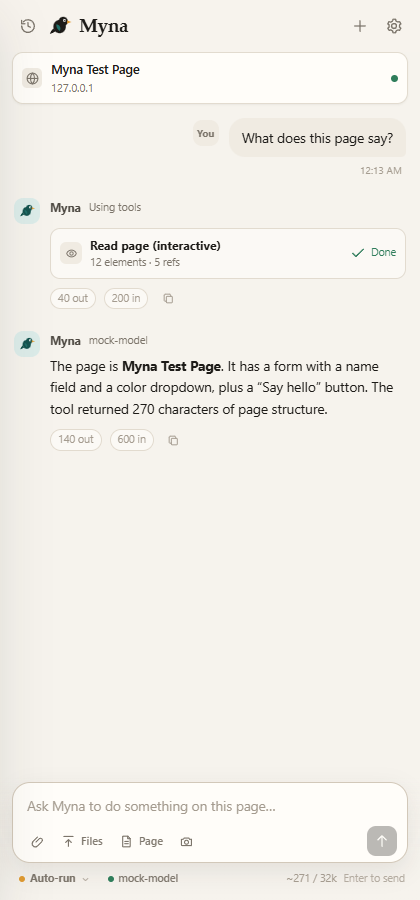
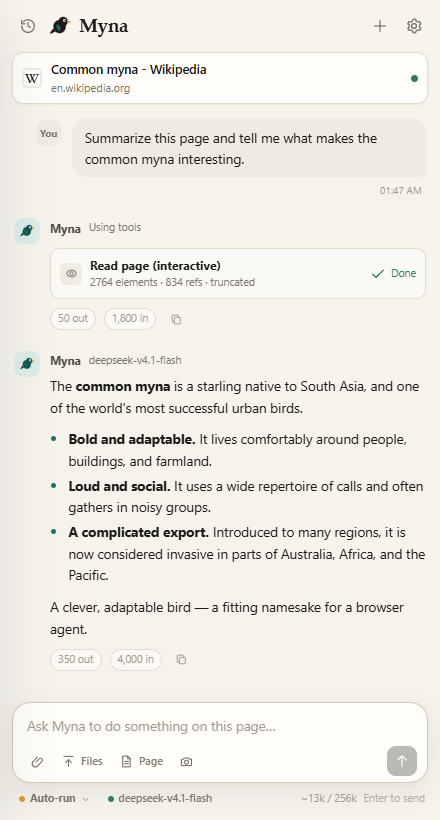
Reposition Myna as the open-source Claude in Chrome alternative
Rewrite the landing page around a hero product shot, clearer onboarding, a comparison table, FAQ, and refreshed real-page screenshots.

diff --git a/README.md b/README.md
@@ -1,21 +1,22 @@
 <p align="center">
-  <img src="src/assets/icon-128.png" width="104" alt="Myna" />
+  <img src="src/assets/icon-128.png" width="96" alt="Myna" />
 </p>
 
 <h1 align="center">Myna</h1>
 
 <p align="center">
-  <strong>An open-source Chrome browser agent with your own API keys.</strong><br />
-  Read the page. Click, type, fill, scroll, open tabs, and research the web — without a Myna account or backend.
+  <strong>The open-source alternative to Claude in Chrome.</strong><br />
+  Bring your own model. Let an AI agent read, click, fill, and research across your tabs.<br />
+  No Myna account. No backend. No telemetry.
 </p>
 
 <p align="center">
   <a href="https://github.com/DumDuky/myna-browser-agent/releases/latest"><img alt="Latest release" src="https://img.shields.io/github/v/release/DumDuky/myna-browser-agent?color=1f6f68" /></a>
   <a href="https://github.com/DumDuky/myna-browser-agent/actions/workflows/ci.yml"><img alt="CI" src="https://github.com/DumDuky/myna-browser-agent/actions/workflows/ci.yml/badge.svg" /></a>
   <img alt="Chrome 116+" src="https://img.shields.io/badge/Chrome-116%2B-df9a31" />
-  <img alt="Manifest V3" src="https://img.shields.io/badge/Manifest-V3-1f6f68" />
   <a href="LICENSE"><img alt="MIT licence" src="https://img.shields.io/github/license/DumDuky/myna-browser-agent?color=1f6f68" /></a>
   <img alt="No telemetry" src="https://img.shields.io/badge/telemetry-none-b4473c" />
+  <a href="CONTRIBUTING.md"><img alt="PRs welcome" src="https://img.shields.io/badge/PRs-welcome-1f6f68" /></a>
 </p>
 
 <p align="center">
@@ -23,52 +24,86 @@
   ·
   <a href="#install">Install</a>
   ·
-  <a href="#features">Features</a>
+  <a href="#what-myna-can-do">Features</a>
+  ·
+  <a href="#screenshots">Screenshots</a>
   ·
   <a href="#providers">Providers</a>
   ·
-  <a href="docs/limitations.md">Limitations</a>
+  <a href="#faq">FAQ</a>
   ·
-  <a href="CONTRIBUTING.md">Contributing</a>
+  <a href="docs/limitations.md">Limitations</a>
 </p>
 
-![Myna chat side panel](docs/screenshots/chat.png)
+![Myna running in a Chrome side panel on a Wikipedia page](docs/screenshots/hero.png)
 
-Myna is an independent, clean-room Chrome extension inspired by the convenience of AI side panels such as Claude in Chrome. It is not affiliated with Anthropic. It talks directly to the model API you choose, keeps its state in your browser, and ships as readable source with no build step.
+Myna puts an AI browser agent in Chrome's side panel. It uses the model provider you choose, talks to that provider directly, and stores your chats in Chrome. You can run it with Anthropic, OpenAI, OpenCode Go, Gemini, a local Ollama model, or any OpenAI-compatible gateway.
 
-> **Status: beta.** The core agent works and is tested, but interfaces and provider presets can change. Read [limitations](docs/limitations.md) before trusting it with anything irreversible.
+Myna is an independent, clean-room project. It is not affiliated with or endorsed by Anthropic. Claude in Chrome is a product of Anthropic.
+
+> **Beta:** the core agent works and has tests, but interfaces and model presets can change. Read [limitations](docs/limitations.md) before you trust it with anything irreversible.
+
+## Start here
+
+- **New to Myna?** [Download the latest release](https://github.com/DumDuky/myna-browser-agent/releases/latest), then follow [Install](#install).
+- **Want to read the code?** The extension runs directly from source. There is no build step and no bundled runtime.
+- **Want to contribute?** Read [CONTRIBUTING.md](CONTRIBUTING.md). Provider presets, docs, tests, and accessibility fixes are all useful.
+- **Need help?** See [SUPPORT.md](SUPPORT.md) or open a [discussion](https://github.com/DumDuky/myna-browser-agent/discussions).
 
 ## Why Myna
 
-- **Your key, your provider.** No Myna account, relay, or subscription. Use a frontier model, a cheap coding model, or a local Ollama model.
-- **Local-first.** Chats, settings, rules, and keys live in Chrome storage. There is no Myna server and no telemetry.
-- **Auditable.** No bundler, no minified code, no remote scripts. The whole extension is plain HTML, CSS, and ES modules.
-- **One browser-wide chat.** Switch tabs and Myna follows the active tab; the conversation stays put. It can also list and work across tabs in every normal window.
-- **Permission-first.** Ask first, auto-run, plan-first, or read-only. Sensitive sites prompt even in Auto-run, and password/card fields are refused.
-- **Extensible.** Add remote MCP tools, scheduled runs, skills, and your own OpenAI-compatible gateway.
+- **Use the model you already pay for.** Myna works with hosted APIs and local models. You control the provider, model, key, and spending limit.
+- **Keep the conversation in one place.** One chat follows the active tab. Switch tabs and Myna updates the page context without starting over.
+- **Approve what matters.** Choose Ask first, Auto-run, Plan first, or Read only. Add site rules. Sensitive sites still ask in Auto-run.
+- **Audit the whole extension.** Every line is plain HTML, CSS, or ES modules. No minified bundle, no remote script, no hidden service.
+- **Extend it without a vendor roadmap.** Add remote MCP tools, reusable skills, scheduled runs, or a custom OpenAI-compatible gateway.
+- **Keep your data local.** Chats, settings, rules, and keys live in Chrome storage. Myna runs no server and collects no analytics.
 
-## Features
+### How Myna is different
 
-| | |
+| | Myna | A typical hosted browser assistant |
+| --- | --- | --- |
+| Account | Not required | Usually required |
+| Model | Any provider you configure | Selected by the vendor |
+| Data path | Browser to your provider | Through the vendor service |
+| Source code | MIT, readable | Closed |
+| Chat history | Local Chrome storage | Usually account-based |
+| Extensibility | MCP, custom gateways, skills | Vendor roadmap |
+
+This table describes hosted browser assistants in general. Check each product's current terms before comparing details.
+
+## What Myna can do
+
+| Area | What you get |
 | --- | --- |
-| **Browser tools** | Accessibility tree with stable refs, fuzzy find, article text, click/type/key/scroll/hover/drag, screenshots, form filling, file upload |
-| **Tabs** | List tabs across windows, create, close, group, navigate, resize |
-| **One global chat** | Follows the active tab without starting a new conversation per tab |
-| **Providers** | Anthropic Messages and OpenAI Chat Completions, plus 15 presets |
-| **Presets** | Provider, common model, behaviour, permission, and appearance presets |
-| **Permissions** | Ask, Auto-run, Plan first, Read only; per-site rules; sensitive-host checks |
-| **Agent motion** | Cursor, click ripples, typing caret, keycaps, scroll hints, element flashes |
-| **MCP** | Remote Streamable HTTP servers, tools imported as `mcp__server__tool` |
-| **Schedules** | Daily or weekly prompt runs in a visible window, with notifications |
-| **Extras** | GIF recording/export, direct web fetch, Bing RSS search, skills editor |
-| **Debugger (optional)** | Trusted input, full screenshots, console logs, network metadata |
-| **Privacy** | No backend, no telemetry, session-only keys supported |
+| **Reading** | Accessibility tree with stable element refs, fuzzy find, readable page text, console logs, network metadata |
+| **Acting** | Click, type, press keys, scroll, hover, drag, fill forms, upload files, take screenshots |
+| **Tabs** | List tabs in every window, create, close, group, navigate, resize |
+| **Research** | Direct URL fetch, Bing RSS search, multi-tab comparison, page summaries |
+| **Workflow** | Plans, permission cards, tool progress, skills, scheduled tasks, GIF export |
+| **Models** | Anthropic Messages, OpenAI Chat Completions, 16 presets, local servers, custom gateways |
+| **Safety** | Sensitive-site checks, domain prompts, password and card-field refusal, prompt-injection guidance |
+| **Privacy** | Local history, session-only keys, no telemetry, no Myna account |
 
-### Screenshots
+## Screenshots
+
+### One chat across your tabs
+
+![Myna side panel on a Wikipedia page](docs/screenshots/chat.png)
+
+### Pick a provider and model
+
+![Provider presets in Myna settings](docs/screenshots/providers.png)
+
+### Tune the agent, permissions, and theme
 
 | Agent presets | Permission presets | Appearance presets |
 | --- | --- | --- |
 | ![Agent presets](docs/screenshots/agent-presets.png) | ![Permission presets](docs/screenshots/permissions.png) | ![Appearance presets](docs/screenshots/appearance.png) |
+
+### Add remote MCP tools
+
+![MCP settings](docs/screenshots/mcp.png)
 
 ## Install
 
@@ -88,13 +123,13 @@ git clone https://github.com/DumDuky/myna-browser-agent.git
 cd myna-browser-agent
 ```
 
-Then load the repository folder unpacked. There is no build step.
+Load the repository folder unpacked in `chrome://extensions`. There is no build step.
 
-Chrome, Edge, Brave, and other Chromium browsers with the Side Panel API (Chrome 116+) are supported. Myna cannot read `chrome://`, the Chrome Web Store, the PDF viewer, or other protected pages. With **Open a new tab on protected pages** enabled, it can open a normal tab and work there instead.
+Chrome, Edge, Brave, and other Chromium browsers with the Side Panel API work. Chrome 116 or newer is required. Myna cannot read `chrome://`, the Chrome Web Store, the PDF viewer, or other protected pages. With **Open a new tab on protected pages** enabled, it can open a normal tab and work there instead.
 
 ## Connect a model
 
-Open Settings and pick a provider preset, paste a key, and press **Save & start**.
+Open Settings, pick a provider preset, paste a key, and press **Save & start**.
 
 | Provider | API shape | Example base URL | Notes |
 | --- | --- | --- | --- |
@@ -110,12 +145,12 @@ Open Settings and pick a provider preset, paste a key, and press **Save & start*
 | xAI | OpenAI-compatible | `https://api.x.ai/v1` | |
 | Together | OpenAI-compatible | `https://api.together.xyz/v1` | |
 | Fireworks | OpenAI-compatible | `https://api.fireworks.ai/inference/v1` | |
-| Azure OpenAI | OpenAI-compatible | `https://RESOURCE.openai.azure.com/openai/deployments/DEPLOYMENT` | Add `api-version=…` in the query field |
+| Azure OpenAI | OpenAI-compatible | `https://RESOURCE.openai.azure.com/openai/deployments/DEPLOYMENT` | Add `api-version=...` in the query field |
 | Ollama | OpenAI-compatible | `http://localhost:11434/v1` | No key; pull a tool-capable model |
 | LM Studio | OpenAI-compatible | `http://localhost:1234/v1` | No key; enable the local server |
 | Custom | OpenAI-compatible | anything | Gateways, proxies, self-hosted |
 
-The model must support **tool calling** for browser actions. Text-only models can chat and summarize, but cannot click or type. Model IDs move fast; every field is editable. See [docs/providers.md](docs/providers.md) for wire-format details.
+The model needs **tool calling** for browser actions. Text-only models can chat and summarize, but they cannot click or type. Model IDs move fast, so every field is editable. See [docs/providers.md](docs/providers.md) for wire-format details.
 
 ### OpenCode Go
 
@@ -123,15 +158,16 @@ The **OpenCode Go** preset uses the OpenAI-compatible endpoint and defaults to `
 
 ## Using Myna
 
-Type a request in the side panel. Myna sees the active tab, can list every tab in the browser, and can act once you grant permission. One chat is global to the browser: switching tabs moves the page context, not the conversation. Click the context bar to re-sync it with the active tab.
+Type a request in the side panel. Myna sees the active tab, can list every tab in the browser, and can act once you grant permission. One chat is global to the browser. Switching tabs moves the page context, not the conversation. Click the context bar to re-sync it with the active tab.
 
-Examples:
+Try:
 
-- “Summarize this page and list the decisions I need to make.”
-- “Find the pricing table and compare the middle two plans.”
-- “Fill in this form with the details below, but don't submit it.”
-- “Open the docs in a new tab and find the authentication section.”
-- “Read the console and tell me why the save button fails.”
+- "Summarize this page and list the decisions I need to make."
+- "Find the pricing table and compare the middle two plans."
+- "Fill in this form with the details below, but don't submit it."
+- "Open the docs in a new tab and find the authentication section."
+- "Read the console and tell me why the save button fails."
+- "Compare the top three results and make a recommendation."
 
 ### Modes
 
@@ -139,46 +175,55 @@ Examples:
 | --- | --- |
 | **Ask first** | Prompts before reading a new site or taking an action. |
 | **Auto-run** | Acts without prompts on approved sites. Sensitive sites and new domains still ask. |
-| **Plan first** | Proposes a plan and domains. You approve; then it works autonomously on those domains. |
-| **Read only** | Can inspect pages but cannot click, type, navigate, fill forms, or change tabs. |
+| **Plan first** | Proposes a plan and domains. You approve, then it works autonomously on those domains. |
+| **Read only** | Inspects pages but cannot click, type, navigate, fill forms, or change tabs. |
 
 ### Protected pages
 
-Chrome blocks extensions on `chrome://`, the Web Store, the PDF viewer, and similar pages. On one of those, the side panel offers **Open a normal tab**. With **Open a new tab on protected pages** enabled (Settings → Agent), sending a prompt does it automatically: Myna opens your configured start page, attaches to it, and runs the request there. The protected page itself is never read.
+Chrome blocks extensions on `chrome://`, the Web Store, the PDF viewer, and similar pages. On one of those, the side panel offers **Open a normal tab**. With **Open a new tab on protected pages** enabled in Settings, sending a prompt does it automatically. Myna opens your configured start page, attaches to it, and runs the request there. The protected page itself is never read.
 
 ### MCP servers
 
-Settings → MCP connects remote **Streamable HTTP** MCP servers. Add a name, URL, and optional headers. Myna calls `tools/list` at the start of each chat and exposes tools as `mcp__<server>__<tool>`. Stdio servers, legacy HTTP+SSE, OAuth, and a resources/prompts UI are not supported.
+Settings, then MCP, connects remote **Streamable HTTP** MCP servers. Add a name, URL, and optional headers. Myna calls `tools/list` at the start of each chat and exposes tools as `mcp__<server>__<tool>`. Stdio servers, legacy HTTP+SSE, OAuth, and a resources/prompts UI are not supported.
 
 ### Scheduled tasks
 
-Settings → Scheduled adds daily or weekly runs. Chrome must be running. Each run opens a visible Myna window, uses Auto-run, records the result, and sends a notification. Sensitive-site prompts are denied because no side panel is open.
+Settings, then Scheduled, adds daily or weekly runs. Chrome must be running. Each run opens a visible Myna window, uses Auto-run, records the result, and sends a notification. Sensitive-site prompts are denied because no side panel is open.
 
 ### Presets and motion
 
-Settings → Providers has one-click provider presets and a common-model picker. Settings → Agent has four behaviour presets — **Cautious**, **Balanced**, **Agent**, and **Planner**. Settings → Permissions has **Locked down**, **Ask first**, **Plan first**, and **Autopilot**, which leave per-site rules untouched. Settings → Appearance has **Follow system**, **Paper**, **Midnight**, and **Compact**.
+Settings, then Providers has provider presets and a common-model picker. Settings, then Agent has **Cautious**, **Balanced**, **Agent**, and **Planner**. Settings, then Permissions has **Locked down**, **Ask first**, **Plan first**, and **Autopilot**, and applying a preset leaves per-site rules untouched. Settings, then Appearance has **Follow system**, **Paper**, **Midnight**, and **Compact**.
 
-The on-page overlay is a real animation layer, not a screenshot decoration: a moving cursor with labels, click ripples, a typing caret, keycaps, scroll hints, and an element flash. It is cosmetic, can be disabled, respects `prefers-reduced-motion`, and is hidden before screenshots.
+The on-page overlay draws a moving cursor with labels, click ripples, a typing caret, keycaps, scroll hints, and an element flash. It is cosmetic, can be disabled, respects `prefers-reduced-motion`, and hides before screenshots.
 
 ![On-page cursor and action hints](docs/screenshots/animations.png)
 
 ### Keys and privacy
 
-- Keys are stored in `chrome.storage.local` by default.
-- A profile can use **session-only keys** (`chrome.storage.session`), which disappear when Chrome closes.
-- Keys are sent only to the provider base URL you configure.
+- Keys live in `chrome.storage.local` by default.
+- A profile can use **session-only keys** in `chrome.storage.session`, which disappear when Chrome closes.
+- Keys go only to the provider base URL you configure.
 - Myna has no telemetry, no relay, and no account system.
 - See [PRIVACY.md](PRIVACY.md) and [SECURITY.md](SECURITY.md).
 
-## Tools
+### Safety
 
-Myna exposes a compact tool set. The model can call these through either provider format.
+- Myna refuses to type passwords, one-time codes, or payment-card fields.
+- Banking, brokerage, payment, and government hosts always prompt for actions, even in Auto-run.
+- Page content is untrusted data. The system prompt tells the model to ignore prompt injection inside pages.
+- Confirm purchases, messages, deletions, account changes, and form submissions yourself.
+- CAPTCHAs, login walls, paywalls, and age gates are stop signs. Myna does not bypass them.
+
+## Tool reference
+
+<details>
+<summary><strong>Open the tool list</strong></summary>
 
 | Tool | Purpose |
 | --- | --- |
 | `read_page` | Accessibility tree with stable `ref_N` element IDs |
 | `find` | Local fuzzy search over page elements, returns refs |
-| `get_page_text` | Readable article/main text extraction |
+| `get_page_text` | Readable article and main text extraction |
 | `computer` | Click, type, key, scroll, hover, drag, screenshot, zoom, wait |
 | `form_input` | Set text, select, checkbox, radio, date, range, contenteditable |
 | `file_upload` | Attach user-picked files to a page file input |
@@ -191,9 +236,11 @@ Myna exposes a compact tool set. The model can call these through either provide
 | `read_console_messages` | Console and uncaught errors (debugger) |
 | `read_network_requests` | HTTP request metadata (debugger) |
 | `resize_window` | Responsive testing |
-| `browser_batch` | Up to 12 tool calls sequentially in one round trip |
+| `browser_batch` | Up to 12 tool calls in one round trip |
 | `update_plan` | Plan approval and progress |
 | `javascript_tool` | Off by default; page-context JavaScript |
+
+</details>
 
 See [docs/tools.md](docs/tools.md) for inputs and behaviour. Remote MCP tools are added dynamically as `mcp__<server>__<tool>`.
 
@@ -220,22 +267,45 @@ side panel ── provider API (your key, direct)
 - The side panel owns the conversation and calls your provider directly.
 - The service worker is the only place with privileged browser APIs.
 - Page tools run in Chrome's isolated world through `chrome.scripting`.
-- The side panel is global; per-tab panel documents and chats are intentionally not used.
-- Content is never sent to a Myna server because there isn't one.
+- The side panel is global. Per-tab panel documents and chats are not used.
+- Content never reaches a Myna server because there is no Myna server.
 
 More detail: [docs/architecture.md](docs/architecture.md).
 
+## FAQ
+
+**Do I need an Anthropic account?**  
+No. Myna supports Anthropic, OpenAI, OpenCode Go, Gemini, OpenRouter, Groq, DeepSeek, Mistral, xAI, Together, Fireworks, Azure, Ollama, LM Studio, and any OpenAI-compatible endpoint.
+
+**Which model should I use?**  
+Pick a model with tool calling and a context window that fits the pages you work with. Frontier models handle messy pages best. Local models work well for simple reading and form tasks.
+
+**Is Myna free?**  
+Myna is MIT licensed and costs nothing. You pay your model provider directly. Local models cost nothing beyond your hardware.
+
+**Does it work in Edge or Brave?**  
+It works in Chromium browsers with the Side Panel API, including Chrome 116 or newer, Edge, and Brave. Chrome is the tested target.
+
+**Can Myna read `chrome://` pages?**  
+No. Chrome blocks every extension there. Myna can open a normal tab and work there instead.
+
+**Where does my data go?**  
+Chats, settings, rules, and keys stay in Chrome storage. Page content goes to the model provider you configure. MCP tool calls go to the MCP server you add. Myna runs no backend.
+
+**Why is this beta?**  
+The browser tools and provider adapters are tested, but model APIs, sites, and Chrome APIs change. The project ships fixes from the issues users report.
+
 ## Development
 
-Requirements: Node 20+ for tests and static checks. No npm dependencies.
+Requirements: Node 20 or newer for tests and static checks. There are no npm dependencies.
 
 ```bash
-npm test        # unit tests (SSE, providers, permissions, settings, scheduler)
-npm run check   # parse every script + validate manifest file references
-npm run verify  # both
+npm test        # unit tests for SSE, providers, permissions, settings, scheduler
+npm run check   # parse every script and validate manifest references
+npm run verify  # run both
 ```
 
-Then load the repository folder unpacked in `chrome://extensions`.
+Load the repository folder unpacked in `chrome://extensions` after changes.
 
 ### Project layout
 
@@ -252,41 +322,42 @@ Then load the repository folder unpacked in `chrome://extensions`.
 │   └── assets/          original Myna icon
 ├── tests/               Node test runner
 ├── docs/                architecture, tools, providers, limitations, releases
-├── scripts/check.mjs    syntax + manifest validation
+├── scripts/check.mjs    syntax and manifest validation
 └── .github/             CI, release workflow, issue and PR templates
 ```
-
-See [CONTRIBUTING.md](CONTRIBUTING.md) before opening a pull request.
 
 ## Limitations
 
 The full list is in [docs/limitations.md](docs/limitations.md). Highlights:
 
-- Chrome/Chromium 116+ only. GitHub releases ship a zip, not a Chrome Web Store package, and there is no auto-update.
-- Remote MCP only: Streamable HTTP, no stdio servers, legacy HTTP+SSE transport, OAuth flow, resources/prompts UI, or sampling.
+- Chrome 116 or newer. GitHub releases ship a zip, not a Chrome Web Store package, and there is no auto-update.
+- Remote MCP only: Streamable HTTP. No stdio servers, legacy HTTP+SSE, OAuth, resources/prompts UI, or sampling.
 - No Claude Desktop pairing, native messaging, relayed inference, or Claude Code integration.
-- Scheduled tasks require Chrome to be running and open a visible window; no cloud cron and no sensitive-site prompts.
-- File uploads use a synthetic `DataTransfer` and may be ignored by sites that require a real picker.
-- GIF recording is capped at 40 frames / 640 px and lives in service-worker memory.
-- Web search is lightweight Bing RSS search, not a licensed search API.
+- Scheduled tasks need Chrome running and open a visible window. There is no cloud cron, and sensitive-site prompts are denied.
+- File uploads use a synthetic `DataTransfer`. Sites that require a real picker may ignore them.
+- GIF recording caps at 40 frames and 640 px wide, and frames live in service-worker memory.
+- Web search uses Bing RSS, not a licensed search API.
 - No memory, projects, or multi-agent orchestration.
 - No cross-origin iframe or closed-shadow-root control.
 - No PDF viewer control, `file://` access, Chrome Web Store access, or browser-internal pages.
 - No CAPTCHA, login-wall, paywall, or anti-bot bypass.
-- Text-only models cannot use screenshots; tool calling is required for actions.
-- Without the optional debugger, synthetic events can fail, and drag/console/network are unavailable.
-- Sensitive-site detection and prompt-injection defenses are best effort, not guarantees.
+- Text-only models cannot use screenshots. Tool calling is required for actions.
+- Without the optional debugger, synthetic events can fail, and drag, console, and network are unavailable.
+- Sensitive-site detection and prompt-injection defenses are best effort. They are not guarantees.
 
-Myna is not a pixel copy of Claude in Chrome or Claude Code, and it does not use their source code.
+Myna is not a pixel copy of Claude in Chrome or Claude Code. It does not use their source code.
 
 ## Contributing
 
-Issues and pull requests are welcome. Good first contributions: provider presets, documentation fixes, test coverage, accessibility, and small UI polish.
+Issues and pull requests are welcome. Good first contributions include provider presets, documentation fixes, test coverage, accessibility, and small UI polish.
 
 - Read [CONTRIBUTING.md](CONTRIBUTING.md).
 - Follow the [Code of Conduct](CODE_OF_CONDUCT.md).
 - Report vulnerabilities privately through [SECURITY.md](SECURITY.md).
 - Use [SUPPORT.md](SUPPORT.md) for questions.
+- Check the [open issues](https://github.com/DumDuky/myna-browser-agent/issues) before starting.
+
+If Myna saves you time, a star helps other people find it.
 
 ## Reverse-engineering note
 

diff --git a/docs/releases/v0.2.0.md b/docs/releases/v0.2.0.md
@@ -1,6 +1,6 @@
 # Myna v0.2.0
 
-Myna is an open-source Chrome browser agent with your own API keys. It reads the page, clicks, types, fills forms, manages tabs, records GIFs, and connects to remote MCP tools — without an account, backend, or telemetry.
+Myna is the open-source alternative to Claude in Chrome. It puts an AI browser agent in your side panel, uses your own API key, and keeps chats in your browser. No account, no backend, no telemetry.
 
 ## Highlights
 
